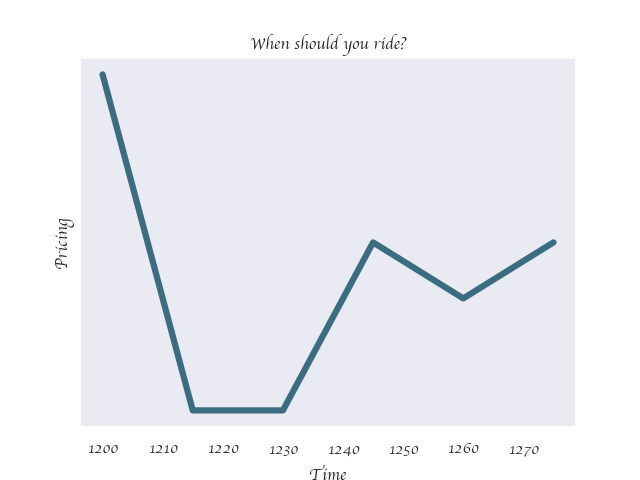
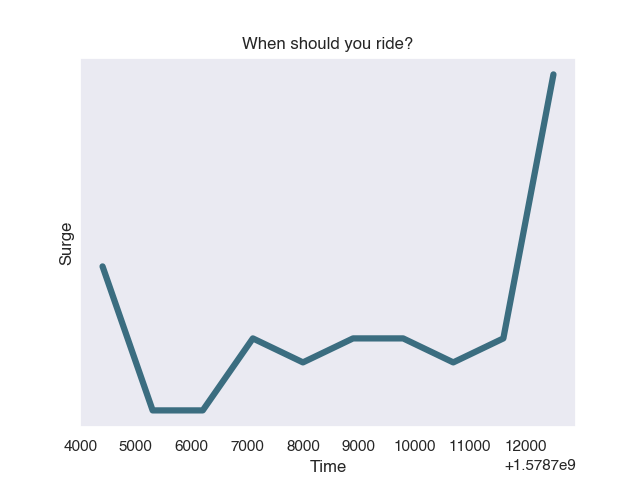
seaborn

diff --git a/app/templates/index.html b/app/templates/index.html
@@ -79,15 +79,37 @@
     <table class="table formBox">
         <thead>
             <tr>
-                <th scope="col">Time</th>
+                <th scope="col">Suggested Times</th>
                 <th scope="col">Predicted Pricing</th>
             </tr>
-            {% for time in ret %}
+
+            {% if 0 < length%}
             <tr>
-                <td> Leave at {{time}} </td>
+                <td> Leave at {{ret[0]}} </td>
+                
+                <td rowspan = 3>
+
+                    <img src="../../static/graph.png" alt="Pricing Graph" onerror="this.onerror=null; this.src='logo.png'" height = 300 width = 600/>
+                
             </tr>
-            {% endfor %}
+            {% endif %}
+            
+            {% if 1 < length %}
+            <tr>
+                <td> Leave at {{ret[1]}} </td>
+                
+            </tr>
+            {% endif %}
+
+            {% if 2 < length %}
+            <tr>
+                <td> Leave at {{ret[2]}} </td>
+                
+                
+            </tr>
+            {% endif %}
         </thead>
+
     </table>
 </div>
 {% endblock body %}

diff --git a/app/templates/base.html b/app/templates/base.html
@@ -31,6 +31,7 @@
       <footer class="footer">
       </footer>
     </div> <!-- /container -->
+    
   </body>
   <!-- Footer -->
 <footer class="page-footer font-small mdb-color lighten-3 pt-4">

diff --git a/app/views.py b/app/views.py
@@ -14,14 +14,19 @@ import math
 import pandas as pd
 import sklearn
 from sklearn.ensemble import RandomForestClassifier
+import seaborn as sns
+import matplotlib.pyplot as plt
+import matplotlib
 
 client = Client(config.ACC_SID, config.AUTH_TOKEN)
 #recieving_phone_number = '+12166780678'
 recieving_phone_number = ''
 sending_phone_number = '+19516665806'
+matplotlib.use('Agg')
 
 @app.route('/', methods=["GET","POST"])
 def index():
+    check = 0
     error_msg = " "
 
     if request.method == "POST":
@@ -47,11 +52,11 @@ def index():
                 recieving_phone_number = request.form['phoneNumber']
                 if not start or not end:
                     error_msg = "You must enter your phone number, earliest and latest arrival times, and your start point and final destination."
-                    return render_template("index.html", ret = [], error = error_msg, early = "", late = "")
+                    return render_template("index.html", ret = [], length = 0, error = error_msg, early = "", late = "")
             
             except:
                 error_msg = "You must enter your phone number, earliest and latest arrival times, and your start point and final destination."
-                return render_template("index.html", ret = [], error = error_msg, early = "", late = "")
+                return render_template("index.html", ret = [], length = 0, error = error_msg, early = "", late = "")
             
             #get current longitude and latitude
             if not start:
@@ -148,16 +153,29 @@ def index():
             preds=predict(day, mins_interval)
             print(preds)
 
-            tup_data = list(zip(mins_interval, time_interval))
+            tup_data = list(zip(time_interval, preds))
             tup_data.sort(key = lambda x: (x[1], x[0]))
-
+            print(tup_data)
 
             try:
                 ret = tup_data[0:3]
             except:
                 ret = tup_data
 
-            ret = [time for surge, time in ret]
+            plt.cla()
+            plt.clf()
+            plt.figure()
+            time_list = [time.strftime('%I:%M %p', time.localtime(num)) for num in time_interval]
+            sns.set(style="dark", rc={"lines.linewidth": 4.5})
+            sns.set_palette("GnBu_d", 3)
+            plt.rcParams["font.family"] = "Helvetica"
+            # Plot the responses for different events and regions
+            ax = sns.lineplot(x=time_list, y=preds) # edit this line with data and vars
+            ax.set_yticks([])
+            ax.set(xlabel='Time', ylabel='Surge', title = "When should you ride?")
+            plt.savefig('static/graph.png')
+            ret = [time for time, surge in ret]
+            print(ret)
             #ret = [str(dt.datetime.fromtimestamp(num).hour) + ':' + str(dt.datetime.fromtimestamp(num).minute) for num in ret]
             ret = [time.strftime('%I:%M %p', time.localtime(num)) for num in ret]
             print(ret)
@@ -170,10 +188,10 @@ def index():
                     )
             except:
                 error_msg = "Unable to send text message with details to " + recieving_phone_number
-                return render_template("index.html", ret = [], error = error_msg, early = early_departure, late = late_departure)
-            return render_template("index.html", ret = ret, error = "", early = early_departure, late = late_departure)
+                return render_template("index.html", ret = [], length = 0, error = error_msg, early = early_departure, late = late_departure)
+            return render_template("index.html", ret = ret, length = len(ret), error = "", early = early_departure, late = late_departure)
             print(message.sid)
         else:
-            return render_template("index.html", ret = [], error = "", early = "", late = "")
+            return render_template("index.html", ret = [], length = 0, error = "", early = "", late = "")
 
-    return render_template("index.html", ret = [], error = "", early = "", late = "")
+    return render_template("index.html", ret = [], length = 0, error = "", early = "", late = "")
